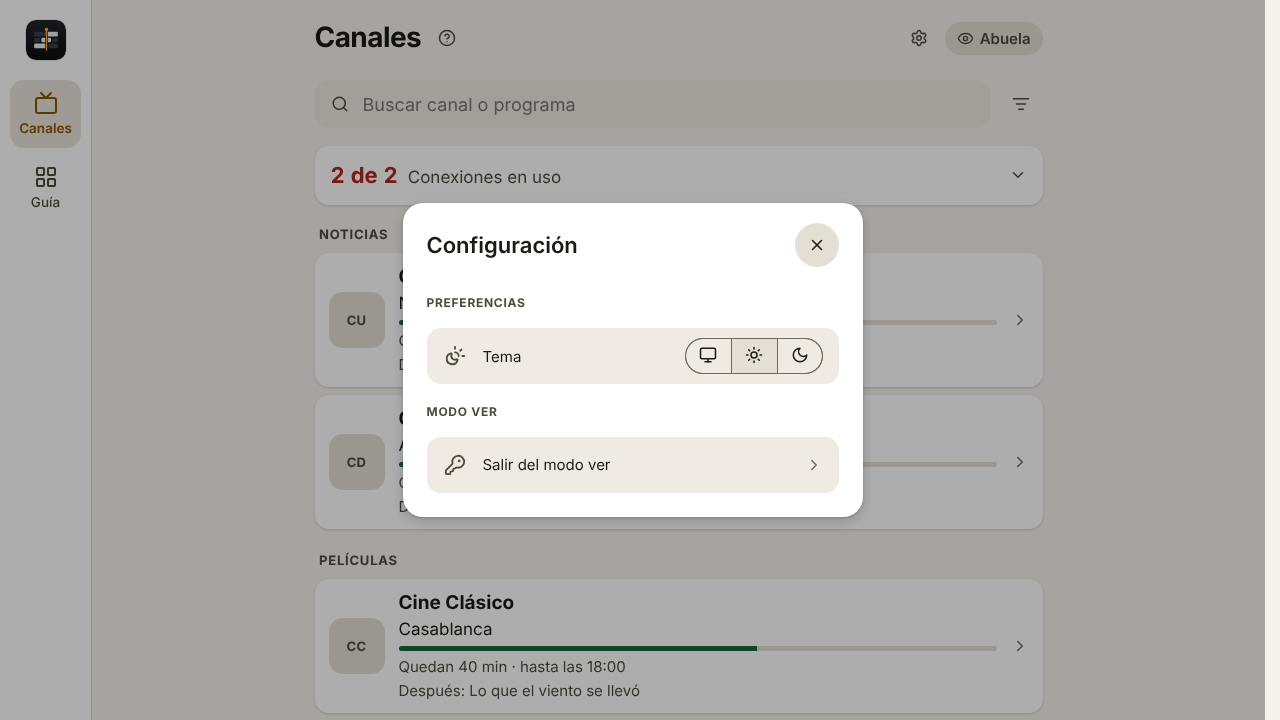
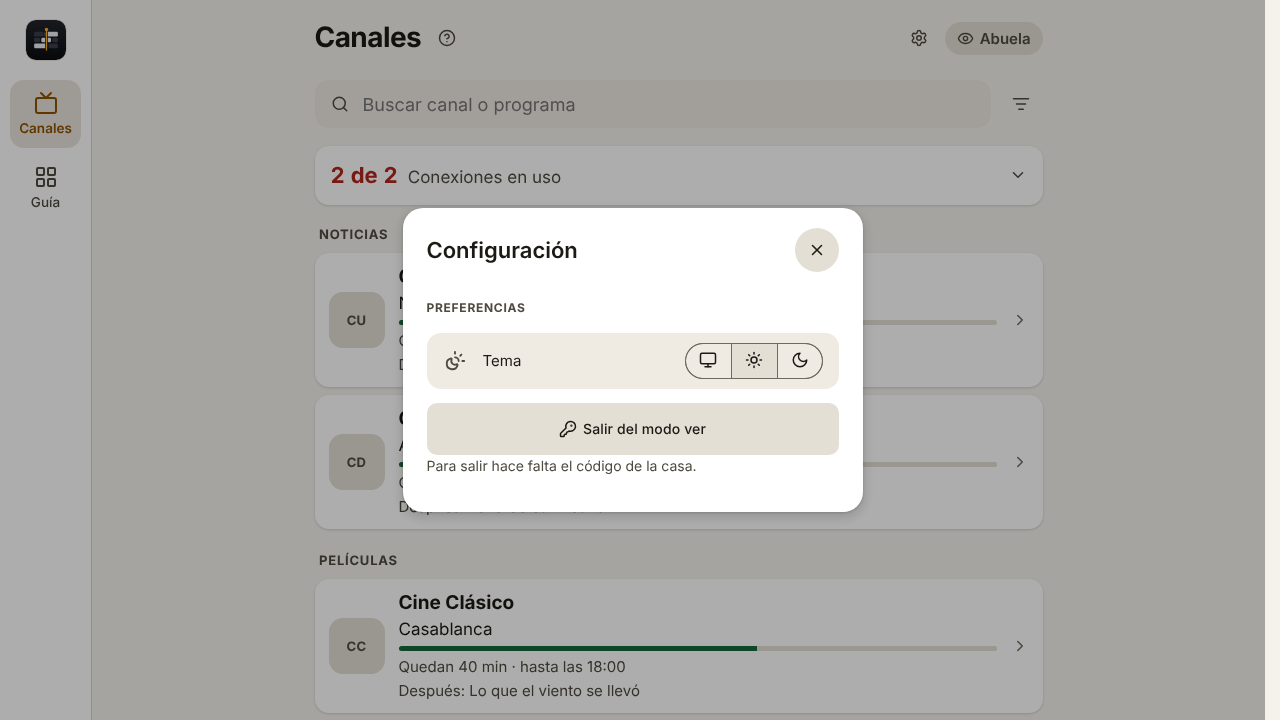
Modo ver: botón «Salir del modo ver» en Configuración, como en el mock
El mock de ver-ajustes ya tenía el botón debajo del tema; la primera
versión lo puso como fila de menú y no se parecía al diseño. Ahora es
el botón tonal de ancho completo (sigue pidiendo el código de la casa).

Claude-Session: https://claude.ai/code/session_01X8Evtj7gZPJmvAYVNPVDYF

Changed region(s): [[0.3125, 0.3972, 0.6875, 0.7333], [0.3125, 0.275, 0.6875, 0.3972], [0.3125, 0.3361, 0.4688, 0.3667]]

diff --git a/worker/web/ver.tsx b/worker/web/ver.tsx
@@ -285,14 +285,8 @@ function SettingsSheet({ close, leave }: { close: () => void; leave: () => void 
             </div>
           </div>
         </div>
-        <h3 class="sec-title">Modo ver</h3>
-        <div class="menu">
-          <button type="button" class="menu-row" onClick={leave}>
-            <span class="menu-icon"><Icon name="key-round" /></span>
-            <span class="menu-text">Salir del modo ver</span>
-            <Icon name="chevron-right" />
-          </button>
-        </div>
+        <button type="button" class="btn btn-tonal btn-block vw-leave" onClick={leave}><Icon name="key-round" />Salir del modo ver</button>
+        <p class="help">Para salir hace falta el código de la casa.</p>
       </div>
     </dialog>
   );

diff --git a/worker/web/web.css b/worker/web/web.css
@@ -1283,6 +1283,7 @@ dialog.sheet.page .sheet-body > .title-row > form[method="dialog"] { display: no
 .gd-taste-btn { display: inline-flex; align-items: center; gap: 6px; min-height: 36px; }
 .gd-taste-btn .icon.sm { width: 15px; height: 15px; }
 .gd-taste-hint { flex-basis: 100%; margin: 0; font-size: var(--fs-md); color: var(--muted); }
+.vw-leave { margin-top: 14px; min-height: 52px; }
 .vw-foot { margin: 28px 4px 0; text-align: center; color: var(--muted); font-size: 14px; }
 .vw-foot .link-btn { display: block; margin: 6px auto 0; font-size: 14px; }
 .vw-conn { margin: 4px 0 6px; border-radius: var(--radius); background: var(--surface); box-shadow: var(--shadow); overflow: hidden; }
